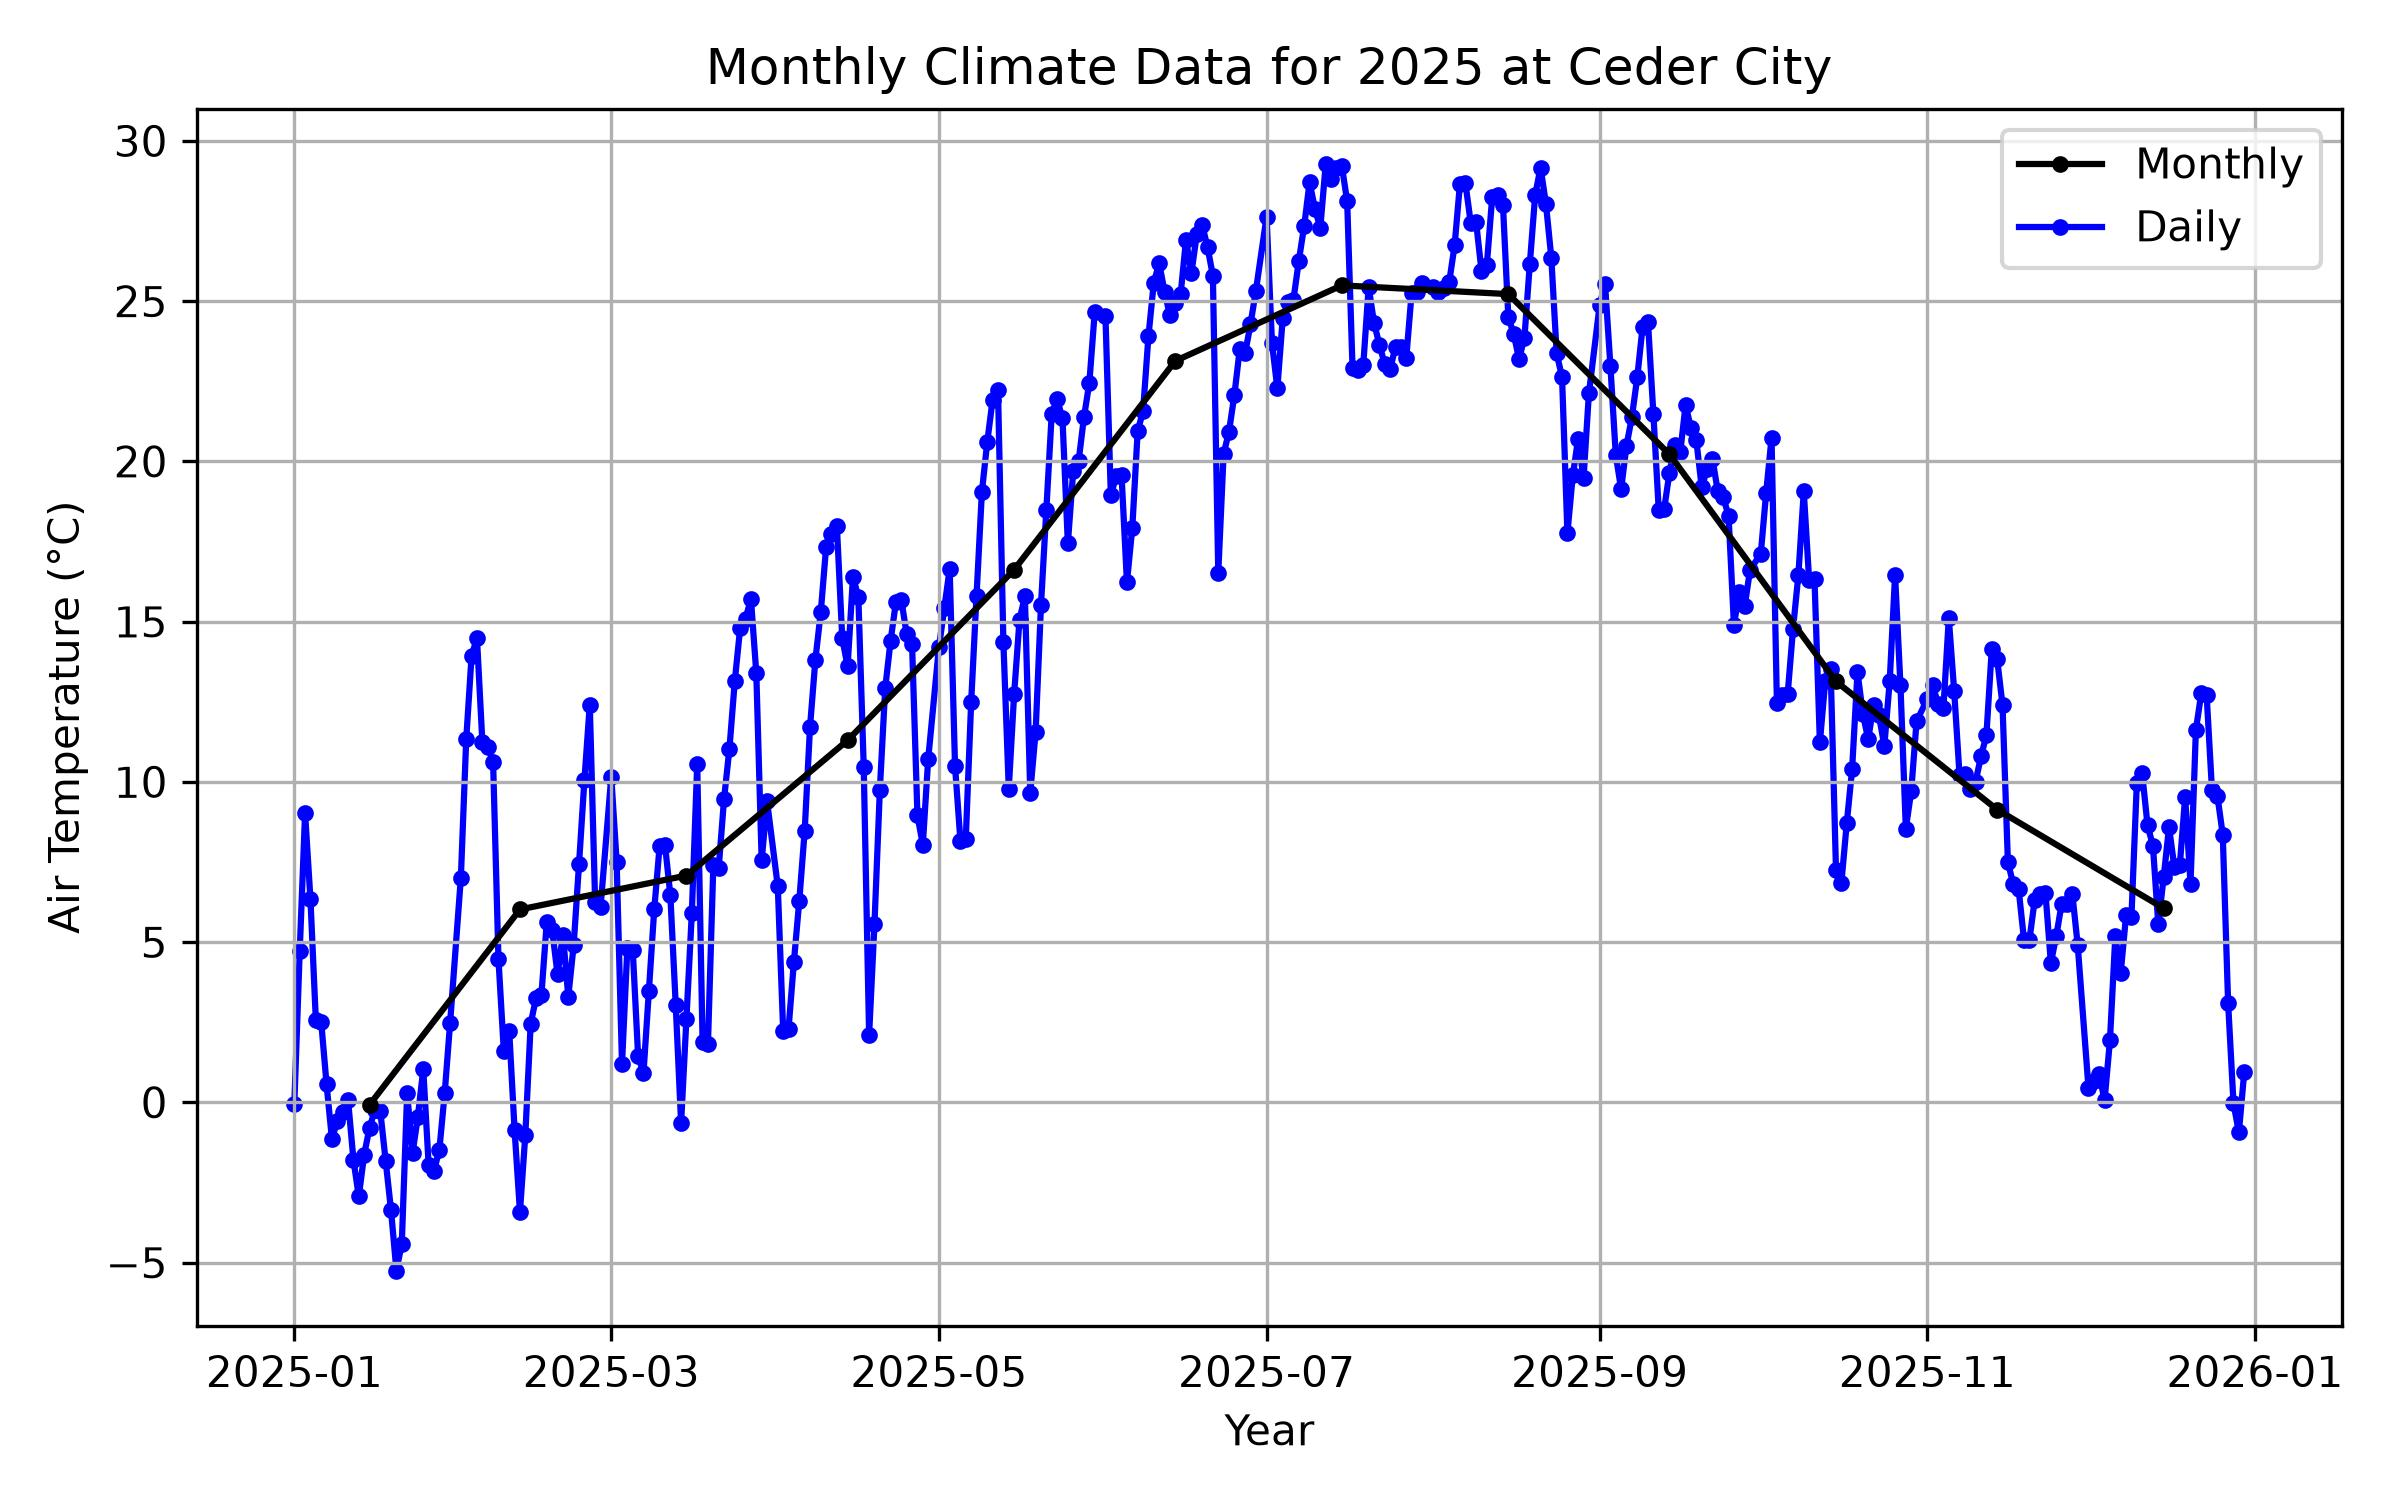
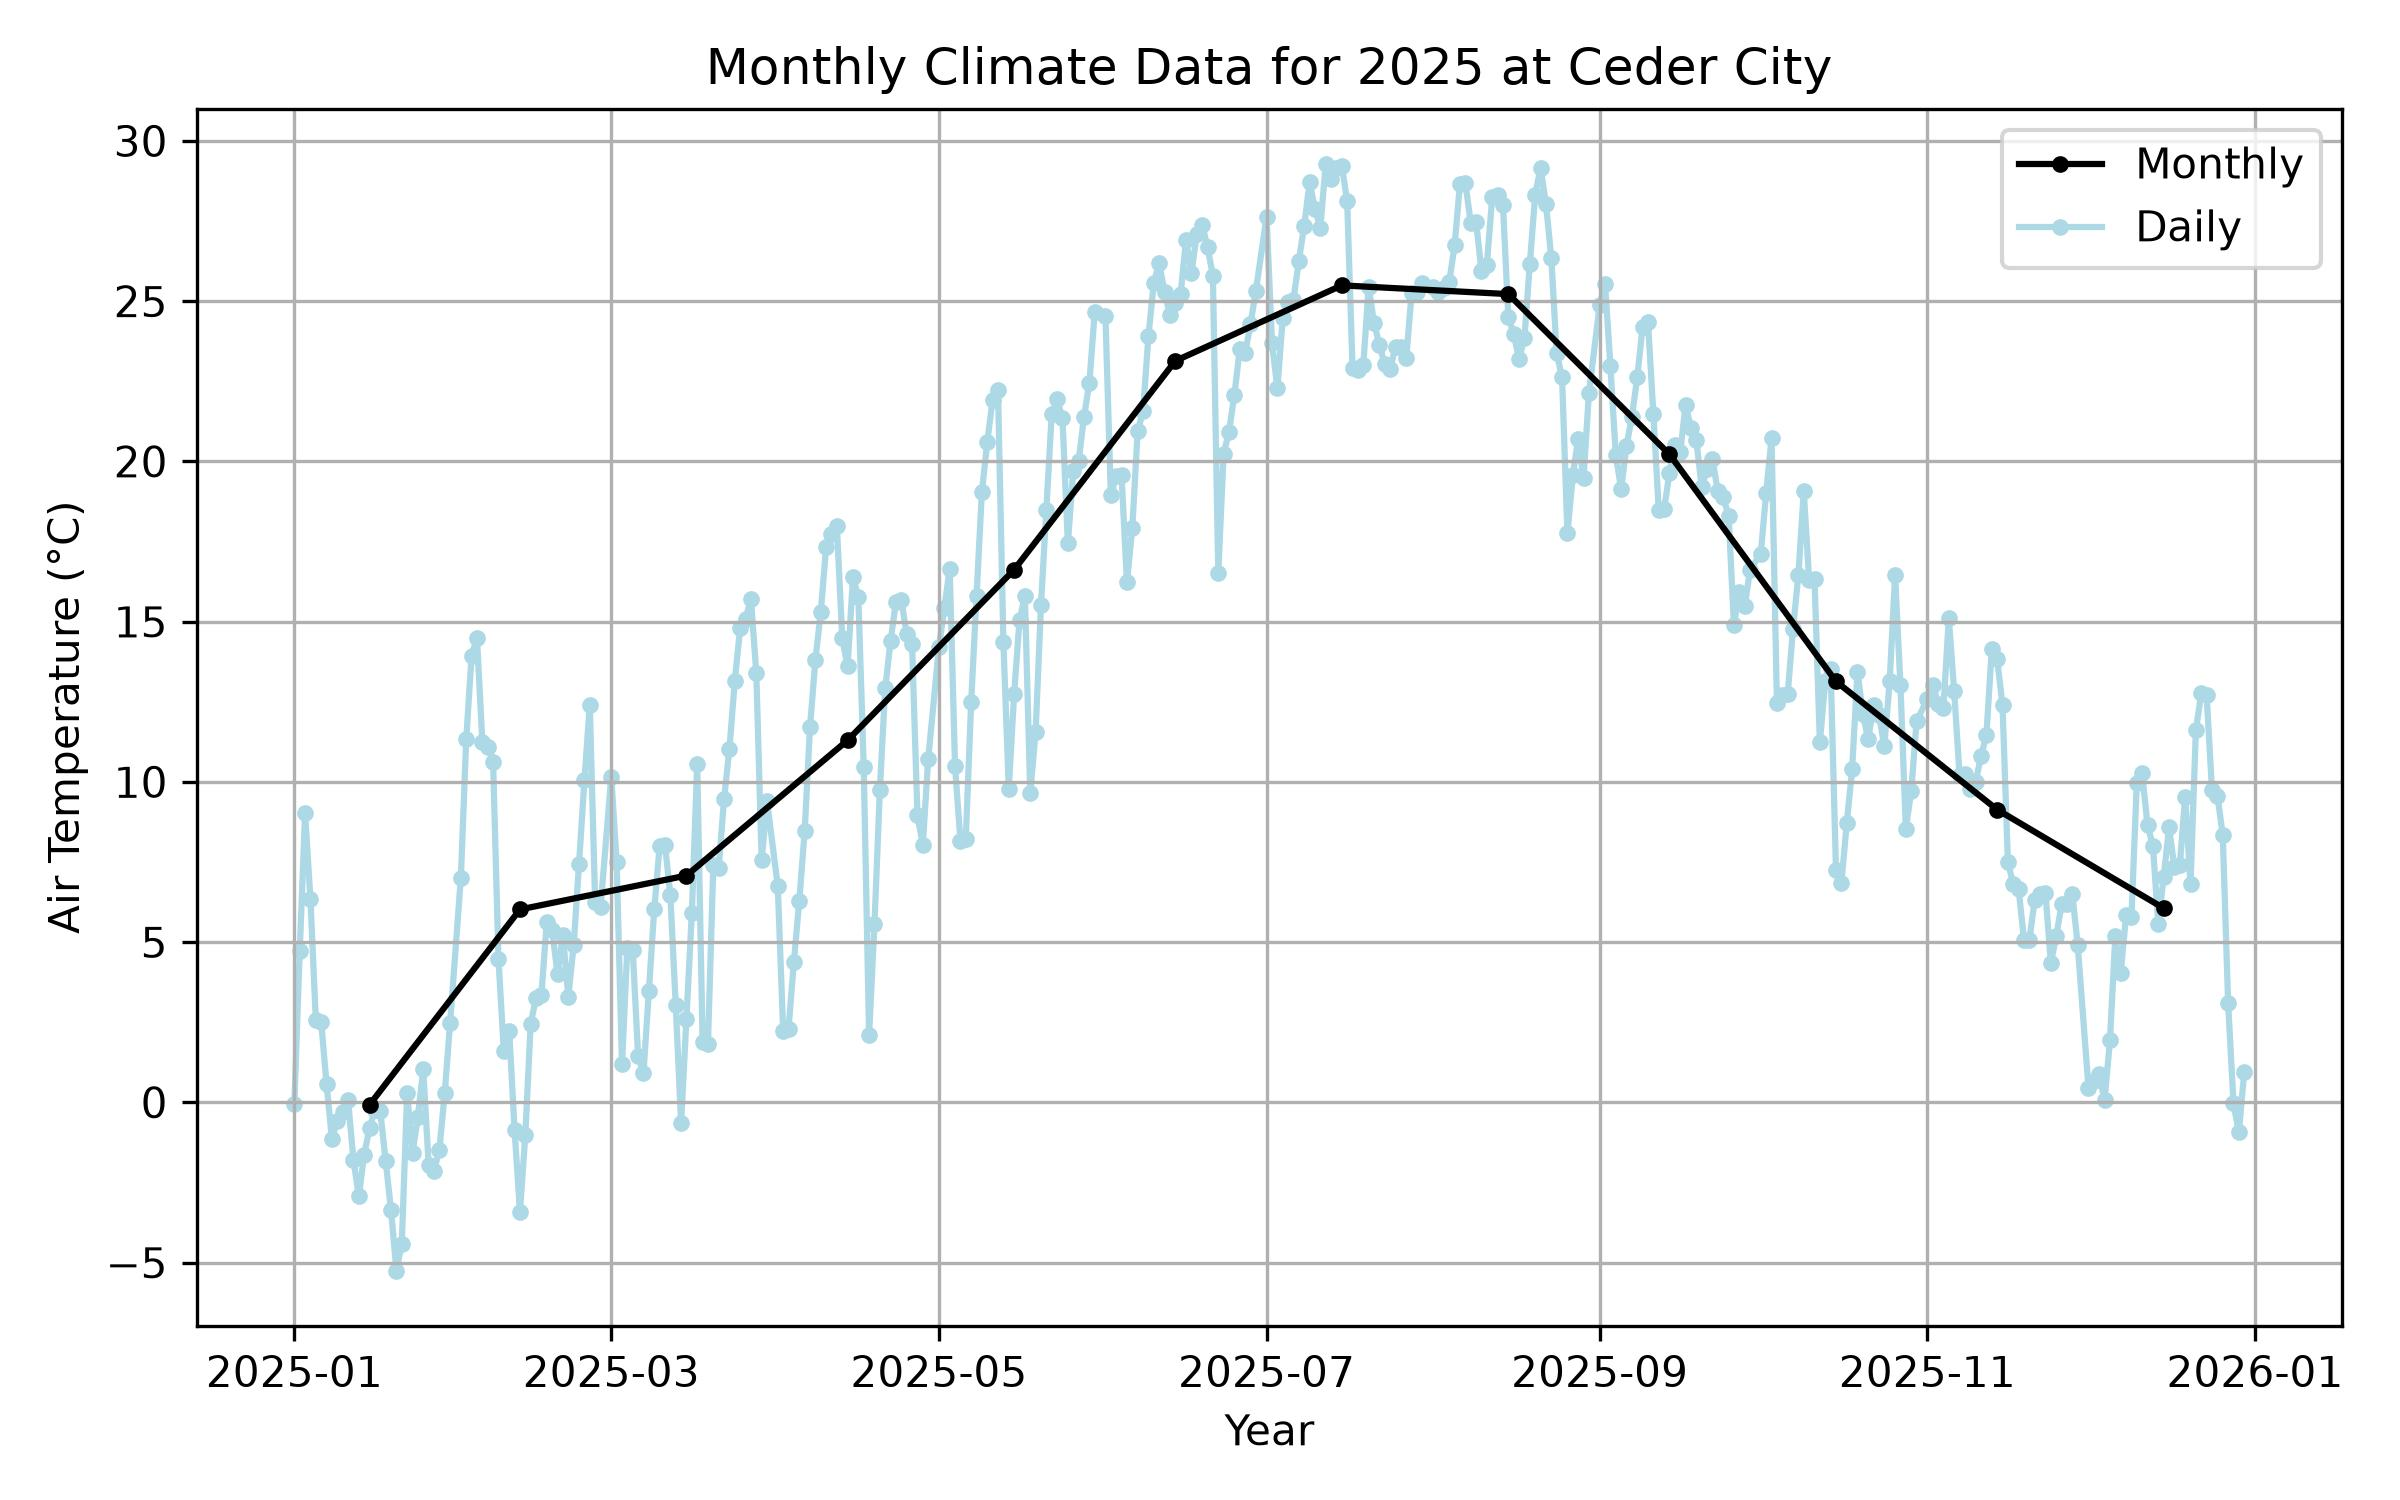
Upload w03_Homework in solution

Changed region(s): [[0.125, 0.092, 0.9375, 0.8587], [0.8438, 0.1227, 0.875, 0.1533]]

diff --git a/python/week03_timeseries2_temporal_Res/solution/w03_10_monthly_ave.HW_sample.py b/python/week03_timeseries2_temporal_Res/solution/w03_10_monthly_ave.HW_sample.py
@@ -107,7 +107,7 @@ plt.figure(figsize=(8, 5))
 var='Air Temp Avg'
 
 plt.plot(data_mnt.index, data_mnt[var], marker='.', linestyle='-', color="black", label='Monthly',zorder=3)
-plt.plot(data_dly.index, data_dly[var], marker='.', linestyle='-', color="blue", label='Daily',zorder=1)
+plt.plot(data_dly.index, data_dly[var], marker='.', linestyle='-', color="lightblue", label='Daily',zorder=1)
 
 # Adding title and labels
 fig_title = 'Monthly Climate Data for 2025 at Ceder City'
